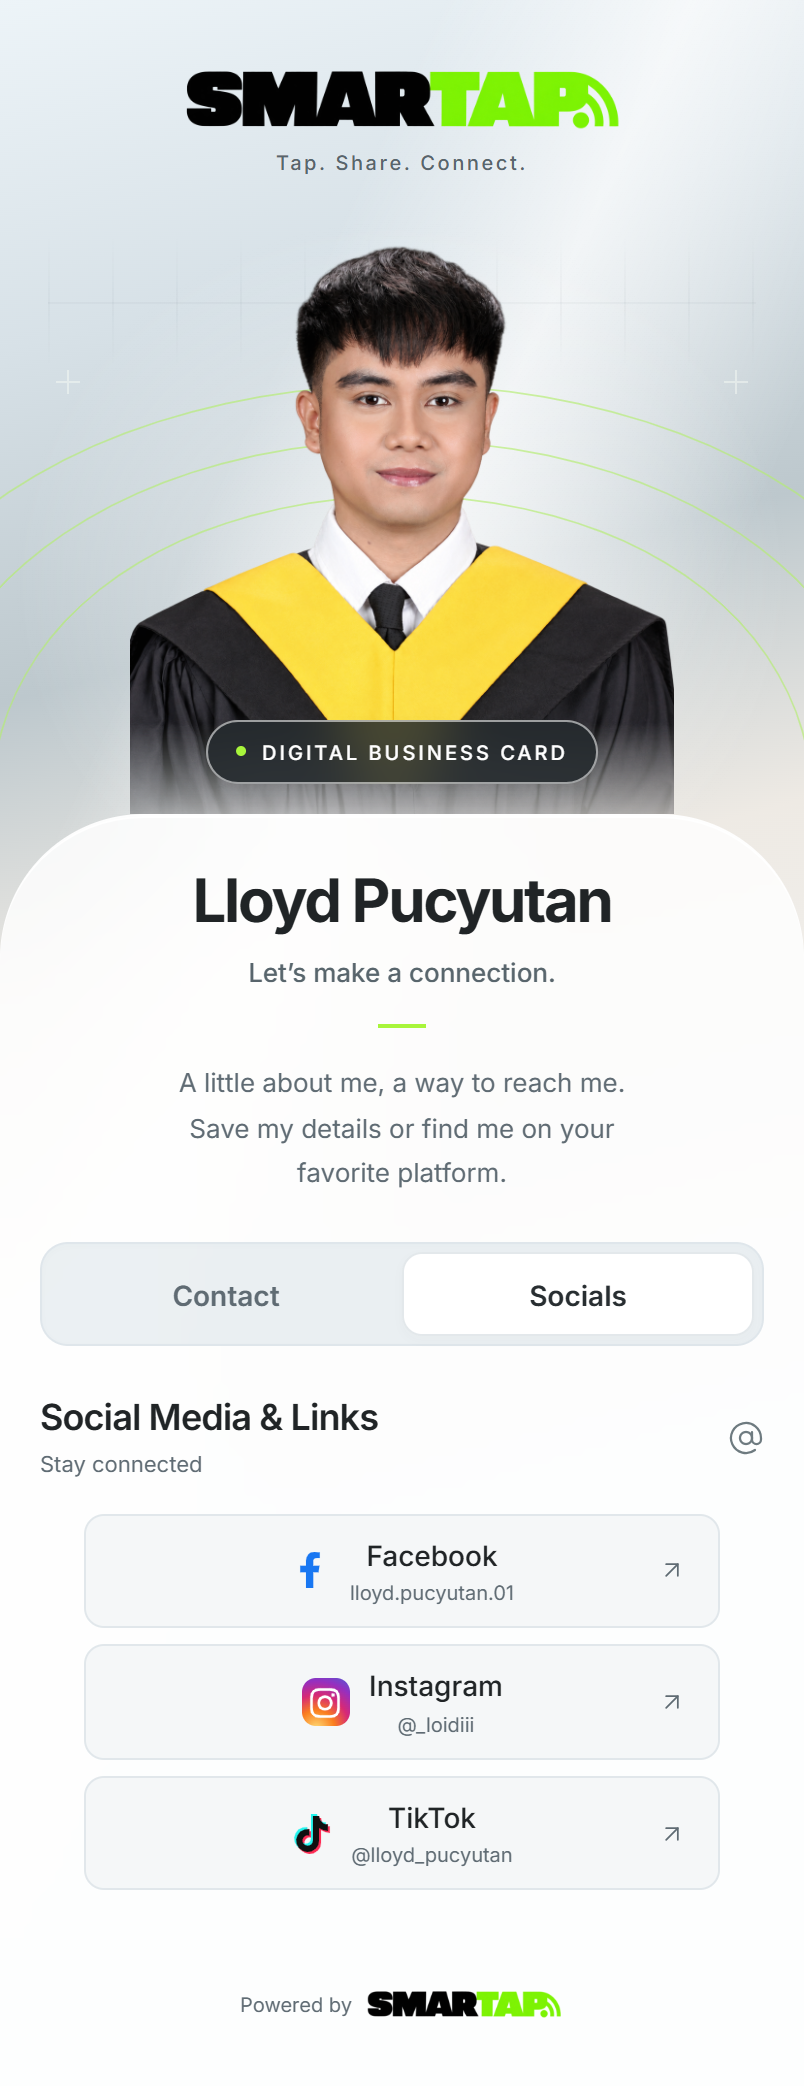
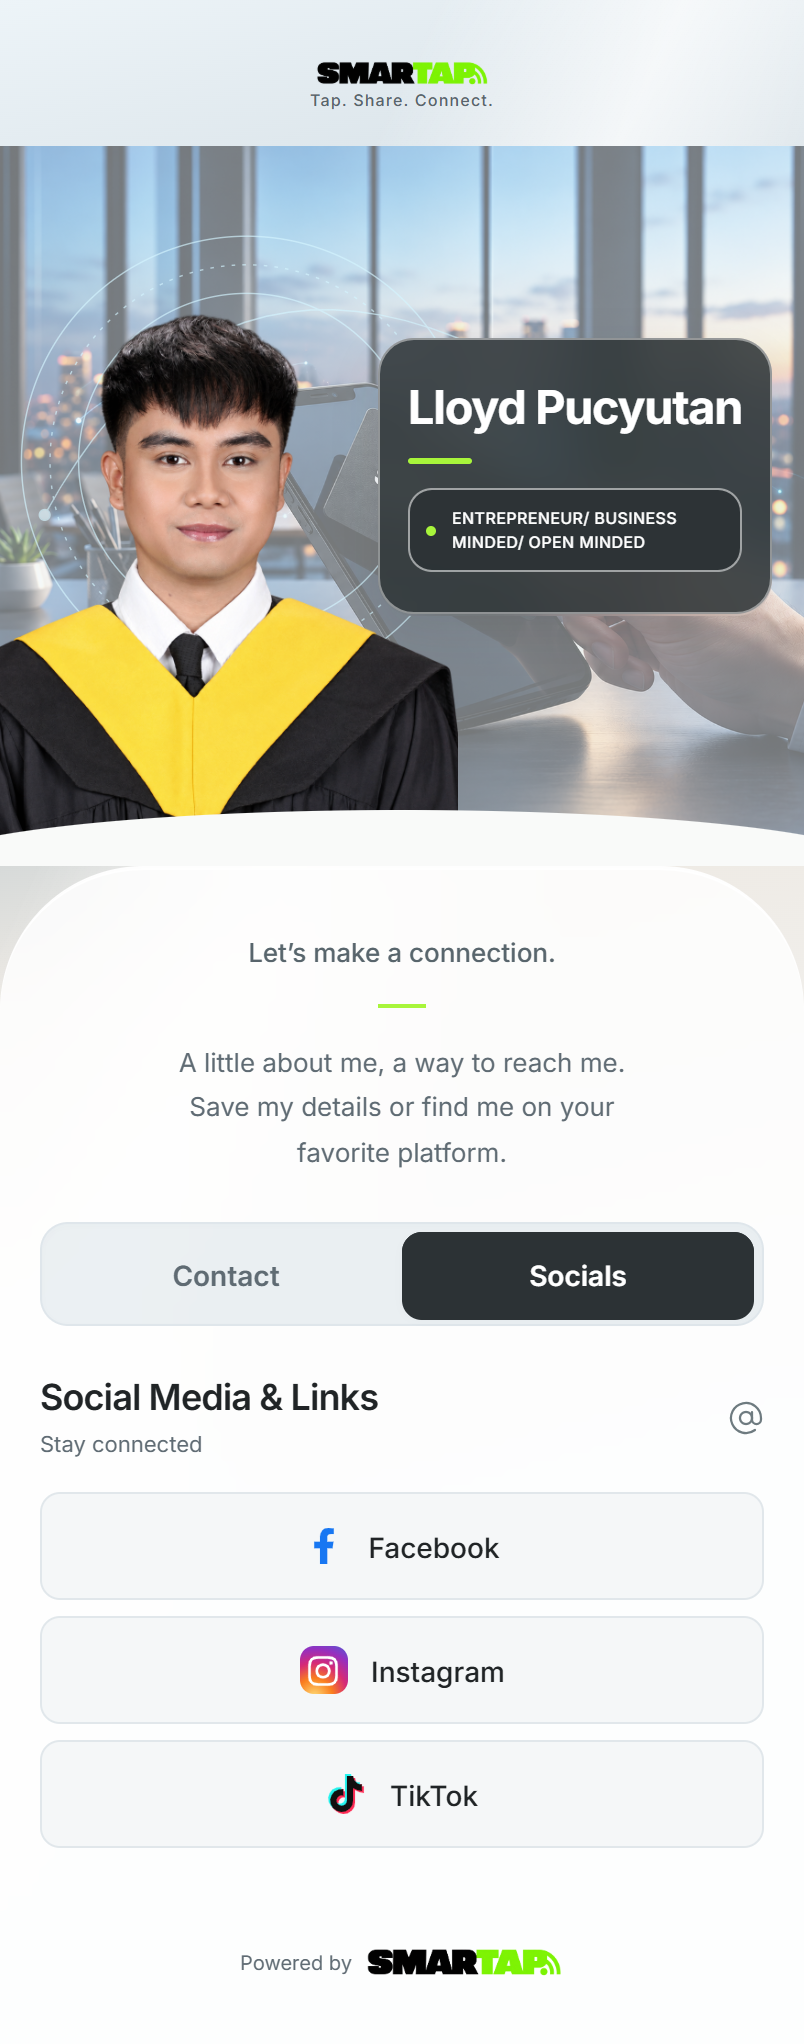
profile

diff --git a/src/styles/global.css b/src/styles/global.css
@@ -6,19 +6,23 @@ a { color: inherit; text-decoration: none; }
 button { font: inherit; cursor: pointer; }
 svg { flex-shrink: 0; }
 :focus-visible { outline: 3px solid var(--green); outline-offset: 4px; }
-.page { position: relative; width: 100%; max-width: 450px; margin: 0 auto; padding: max(24px,env(safe-area-inset-top)) 20px max(24px,env(safe-area-inset-bottom)); }
-.brand-header { position: relative; text-align: center; z-index: 1; }
-.wordmark { display: block; width: 88px; max-width: calc(100% - 48px); height: auto; margin: -2px auto -6px; }
-.brand-header p { margin: 0; font-size: 8px; font-weight: 500; line-height: 1.4; letter-spacing: .6px; color: #58656c; }
-.portrait-stage { position: relative; height: 304px; margin: 16px -20px 0; overflow: hidden; background: radial-gradient(ellipse at 50% 62%,rgba(255,255,255,.5),transparent 68%); }
-.portrait-stage::before { content: ''; position: absolute; inset: 16px 24px auto; height: 64px; background-image: linear-gradient(rgba(73,90,101,.045) 1px,transparent 1px),linear-gradient(90deg,rgba(73,90,101,.045) 1px,transparent 1px); background-size: 32px 32px; mask-image: linear-gradient(transparent,#000,transparent); }
-.signal-paths path:first-child { stroke: #b4ed70; }
-.signal-paths { position: absolute; width: 100%; height: 100%; inset: 0; stroke: #f7fbf4; stroke-width: .85; opacity: .65; }
-.portrait { position: absolute; display: block; width: 272px; max-width: calc(100% - 32px); height: 340px; object-fit: contain; object-position: top center; top: 0; left: 50%; transform: translateX(-50%); mask-image: linear-gradient(#000 76%,transparent 96%); }
-.identity-label { position: absolute; bottom: 15px; left: 50%; transform: translateX(-50%); white-space: nowrap; display: flex; align-items: center; gap: 8px; padding: 9px 14px; border: 1px solid rgba(255,255,255,.55); border-radius: 24px; background: rgba(32,38,41,.82); backdrop-filter: blur(12px); -webkit-backdrop-filter: blur(12px); color: #fff; font-size: 10px; font-weight: 500; letter-spacing: 1.5px; box-shadow: 0 3px 10px #163d320a; }
-.identity-label span { width: 5px; height: 5px; border-radius: 50%; background: var(--lime); }
-.profile-surface { position: relative; background: var(--glass); backdrop-filter: blur(16px); -webkit-backdrop-filter: blur(16px); border: 1px solid rgba(255,255,255,.75); border-radius: 72px 72px 28px 28px; padding: 24px 20px; box-shadow: inset 0 1px 0 #fff,0 8px 28px #163d3207; }
+.page { position: relative; width: 100%; max-width: 450px; margin: 0 auto; padding: 0 20px max(24px,env(safe-area-inset-bottom)); }
+.portrait-stage { position: relative; isolation: isolate; height: 328px; margin: 0 -20px; overflow: hidden; background: #edf2f4; }
+.hero-background { position: absolute; z-index: -1; inset: 0; width: 100%; height: 100%; object-fit: cover; object-position: center; opacity: .5; pointer-events: none; }
+.portrait { position: absolute; display: block; width: 280px; max-width: calc(100% - 32px); height: 350px; object-fit: contain; object-position: top center; top: 24px; left: 45%; transform: translateX(-50%); mask-image: linear-gradient(#000 78%,transparent 98%); }
+.identity-label { position: absolute; bottom: 16px; left: 50%; transform: translateX(-50%); width: max-content; max-width: calc(100% - 32px); display: flex; align-items: center; gap: 8px; padding: 10px 14px; border: 1px solid rgba(255,255,255,.55); border-radius: 24px; background: rgba(44,50,53,.9); backdrop-filter: blur(12px); -webkit-backdrop-filter: blur(12px); color: #fff; font-size: 9px; line-height: 1.5; font-weight: 500; letter-spacing: .6px; text-align: center; box-shadow: 0 4px 16px #163d3210; }
+.identity-label span { width: 5px; height: 5px; flex-shrink: 0; border-radius: 50%; background: var(--lime); }
+.portrait-stage { height: 400px; }
+.hero-background { object-position: 60% center; }
+.hero-signals { position: absolute; inset: 0; width: 100%; height: 100%; stroke: #d4f5ff; stroke-width: .8; opacity: .65; pointer-events: none; }
+.hero-signals circle:nth-child(2) { stroke-dasharray: 2 4; }
+.hero-identity { position: absolute; z-index: 5; bottom: 72px; right: 16px; width: 49%; padding: 20px 14px; border: 1px solid #ffffff80; border-radius: 18px; background: rgba(44,50,53,.58); backdrop-filter: blur(18px) saturate(125%); -webkit-backdrop-filter: blur(18px) saturate(125%); box-shadow: inset 0 1px 0 #ffffff30,0 8px 24px #16273520; }
+.hero-identity h1 { color: #fff; font-size: clamp(20px,5.8vw,26px); line-height: 1.2; letter-spacing: -.6px; }
+.hero-identity .identity-label { margin-top: 12px; position: static; transform: none; width: 100%; max-width: none; padding: 0; border: 0; border-radius: 0; background: transparent; backdrop-filter: none; -webkit-backdrop-filter: none; font-size: 8px; letter-spacing: .2px; text-align: left; box-shadow: none; }
+.portrait-stage .portrait { z-index: 3; width: 64%; max-width: none; height: 380px; left: -7%; top: auto; bottom: 0; transform: none; object-position: bottom center; mask-image: none; }
+.profile-surface { position: relative; z-index: 4; margin-top: -48px; background: var(--glass); backdrop-filter: blur(16px); -webkit-backdrop-filter: blur(16px); border: 1px solid rgba(255,255,255,.75); border-radius: 48px 48px 28px 28px; padding: 24px 20px; box-shadow: inset 0 1px 0 #fff,0 8px 28px #163d3207; }
 .profile-copy { text-align: center; }
+.profile-wordmark { display: block; width: 88px; max-width: 100%; height: auto; margin: 0 auto; }
 h1 { margin: 0; font-size: 30px; font-weight: 700; line-height: 1.2; letter-spacing: -1.15px; }
 .profile-introduction { margin: 8px 0 0; font-size: 13px; line-height: 1.6; color: #58656c; font-weight: 500; }
 .profile-divider { width: 24px; height: 2px; background: var(--lime); margin: 16px auto; }
@@ -87,10 +91,9 @@ h2 { margin: 0 0 4px; font-size: 18px; font-weight: 600; letter-spacing: -.45px;
   .page { padding-inline: 0; padding-bottom: 0; min-height: 100svh; display: flex; flex-direction: column; }
   .page > main { flex: 1; display: flex; flex-direction: column; }
   .portrait-stage { margin-inline: 0; }
-  .profile-surface { flex: 1; border-inline: 0; border-bottom: 0; border-radius: 72px 72px 0 0; box-shadow: inset 0 1px 0 #fff; padding-left: max(20px,env(safe-area-inset-left)); padding-right: max(20px,env(safe-area-inset-right)); }
+  .profile-surface { flex: 1; border-inline: 0; border-bottom: 0; border-radius: 48px 48px 0 0; box-shadow: inset 0 1px 0 #fff; padding-left: max(20px,env(safe-area-inset-left)); padding-right: max(20px,env(safe-area-inset-right)); }
   .powered-by { margin-top: 0; padding: 16px 20px max(24px,env(safe-area-inset-bottom)); background: var(--glass); backdrop-filter: blur(16px); -webkit-backdrop-filter: blur(16px); }
 }
-@media (min-width:600px) { .page { padding-top: 40px; } }
 @media (prefers-reduced-motion:reduce) { *,*::before,*::after { transition: none !important; } .action-row:not(:disabled):hover { transform: none; } }
 
 

diff --git a/src/components/Hero.jsx b/src/components/Hero.jsx
@@ -2,11 +2,16 @@ import { profile } from '../profile';
 
 export default function Hero() {
   return <section className="portrait-stage" aria-label="Profile portrait">
-    <svg className="signal-paths" viewBox="0 0 402 304" fill="none" aria-hidden="true">
-      <path d="M-85 304C-85 18 487 18 487 304M-45 304C-45 55 447 55 447 304M-5 304C-5 92 407 92 407 304" />
-      <path d="M28 88h12m-6-6v12M362 88h12m-6-6v12" />
+    <img className="hero-background" src="/smartap-dusk-background.png" alt="" aria-hidden="true" />
+    <svg className="hero-signals" viewBox="0 0 450 360" fill="none" aria-hidden="true">
+      <circle cx="138" cy="155" r="94" /><circle cx="138" cy="155" r="110" /><circle cx="138" cy="155" r="126" />
+      <path d="M25 185Q115 20 270 92T420 140" />
+      <g fill="#e2f8ff"><circle cx="25" cy="185" r="3" /><circle cx="270" cy="92" r="3" /><circle cx="420" cy="140" r="3" /></g>
     </svg>
+    <div className="hero-identity">
+      <h1>{profile.name}</h1>
+      <span className="identity-label"><span aria-hidden="true" /> ENTREPRENEUR/ BUSINESS MINDED/ OPEN MINDED</span>
+    </div>
     <img className="portrait" src="/profile-cutout.png" alt={profile.name} fetchPriority="high" />
-    <span className="identity-label"><span aria-hidden="true" /> ENTREPRENEUR/ BUSINESS MINDED/ OPEN MINDED</span>
   </section>;
 }

diff --git a/src/App.jsx b/src/App.jsx
@@ -16,15 +16,11 @@ export default function App() {
   }
   return <div className="page">
     <a className="skip-link" href="#profile-actions">Skip to profile actions</a>
-    <header className="brand-header">
-      <img className="wordmark" src="/smartap-wordmark.png" alt="SMARTAP" width="2172" height="724" fetchPriority="high" />
-      <p>Tap. Share. Connect.</p>
-    </header>
     <main>
       <Hero />
       <div className="profile-surface">
         <div className="profile-copy">
-          <h1>Lloyd Pucyutan</h1>
+          <img className="profile-wordmark" src="/smartap-wordmark.png" alt="SMARTAP" width="2172" height="724" />
           <p className="profile-introduction">Let’s make a connection.</p>
           <div className="profile-divider" aria-hidden="true" />
           <p className="profile-description">A little about me, a way to reach me.<br />Save my details or find me on your favorite platform.</p>
